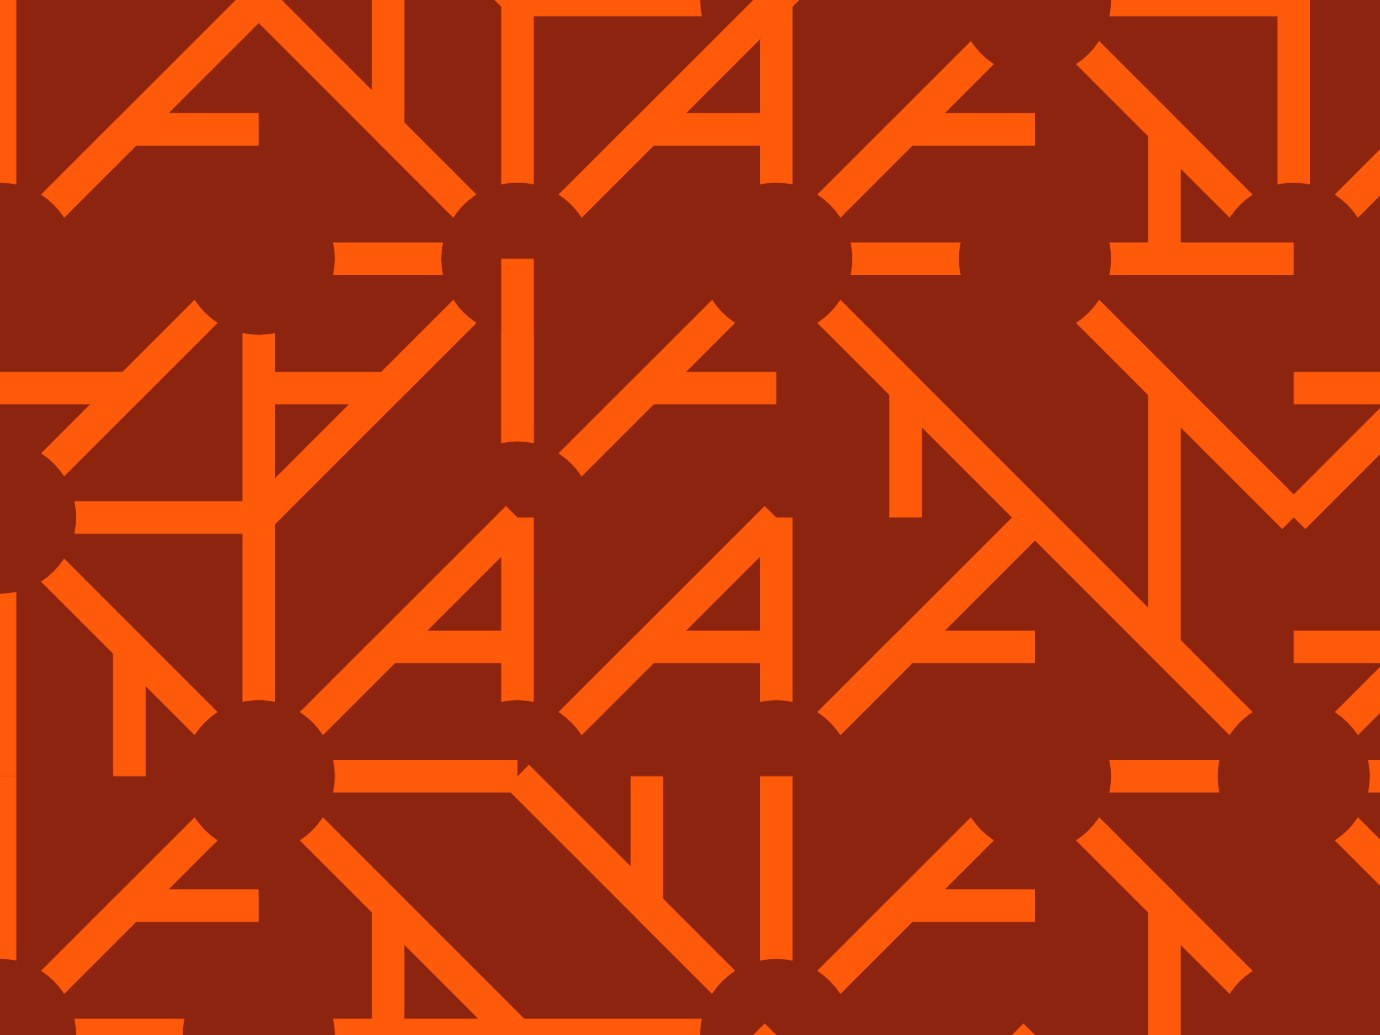
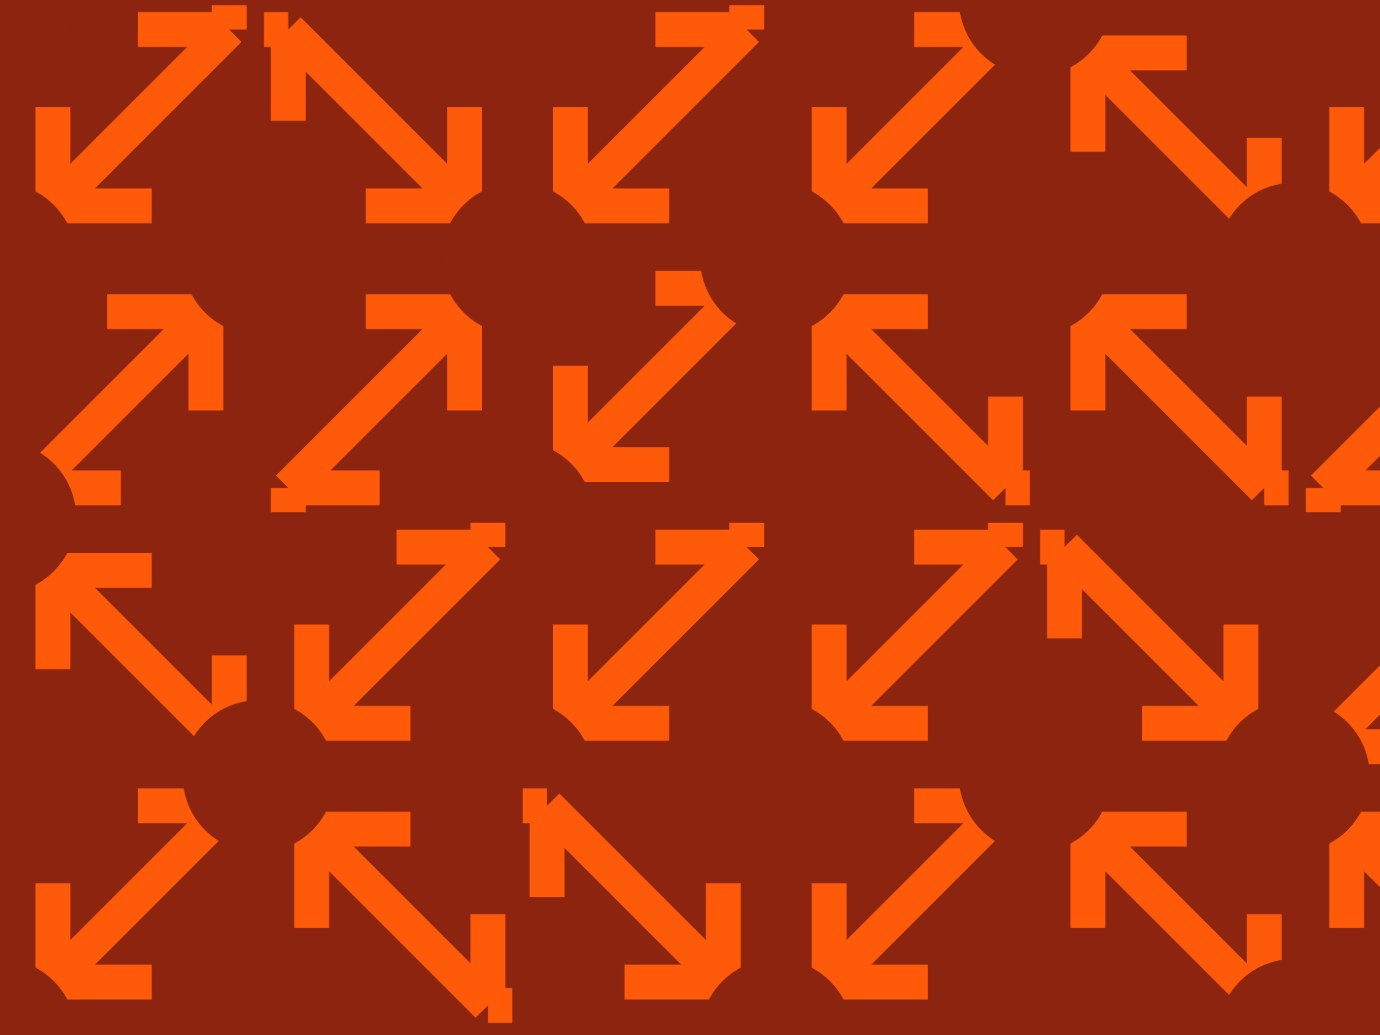
Lock Glyph to an actual arrow
It was dealing strokes freely between anchor points, which produced a set
of marks that happened to include arrows — not the same thing as an arrow
generator. It is now always an arrow, and the seed varies only its
proportions: how far the shaft runs, how big the head is, whether it
carries a tail bar.

The shaft runs down the diagonal and the head is two bars laid back from
the tip along the axes, so the shaft bisects a right angle. That is how the
reference draws it, and it is why the head still reads as a head after a
quarter turn — the bars land on the grid rather than at some odd angle. A
tail bar squared off across the base turns a bare arrow into the bracketed
mark the reference stamps.

Two things had to be got right, and the first attempt got both wrong:

  - The tip must stop short of the corner it points at, because that corner
    is where the scoop is bitten out and where four arrows converge. Running
    the shaft all the way in put the head underneath the scoop, which ate it
    and left a bare diagonal.
  - The head needs a floor. Scaling it by a hash let some seeds produce a
    head too small to read as one, and an arrow generator that sometimes
    draws a line is not doing its job.

Head and Tail are now the two shape controls, replacing the old Arms.

Verified: twelve seeds give twelve distinct arrows, all 6 parameters change
the render, Turn visits all four quarter-turns and returns to its start, and
[…]

diff --git a/glyph/index.html b/glyph/index.html
@@ -393,8 +393,9 @@ input[type=range]{accent-color:var(--ink)}
       </div>
       <a class="lnk back" href="../index.html">&larr; All tools</a>
     </div>
-    <div class="l-scroll"><details class="grp" open><summary>Glyph</summary><div class="grp-b"><div class="pr"><div class="top"><span class="k">Arms</span><span class="v" id="armsVal">45%</span></div><div class="track"><input type="range" id="arms" min="0" max="1" step="0.01" value="0.45"></div></div>
-        <div class="pr"><div class="top"><span class="k">Stroke</span><span class="v" id="weightVal">30%</span></div><div class="track"><input type="range" id="weight" min="0" max="1" step="0.01" value="0.3"></div></div>
+    <div class="l-scroll"><details class="grp" open><summary>Arrow</summary><div class="grp-b"><div class="pr"><div class="top"><span class="k">Head</span><span class="v" id="armsVal">55%</span></div><div class="track"><input type="range" id="arms" min="0" max="1" step="0.01" value="0.55"></div></div>
+        <div class="pr"><div class="top"><span class="k">Tail</span><span class="v" id="tailVal">30%</span></div><div class="track"><input type="range" id="tail" min="0" max="0.7" step="0.01" value="0.3"></div></div>
+        <div class="pr"><div class="top"><span class="k">Stroke</span><span class="v" id="weightVal">34%</span></div><div class="track"><input type="range" id="weight" min="0" max="1" step="0.01" value="0.34"></div></div>
         <div class="pr"><div class="top"><span class="k">Bite</span><span class="v" id="biteVal">70%</span></div><div class="track"><input type="range" id="bite" min="0" max="1" step="0.01" value="0.7"></div></div></div></details>
     <details class="grp" open><summary>Layout</summary><div class="grp-b"><div class="pr"><div class="top"><span class="k">Glyphs across</span><span class="v" id="gridVal">4</span></div><div class="track"><input type="range" id="grid" min="1" max="16" step="1" value="4"></div></div>
         <div class="pr"><div class="top"><span class="k">Rotation</span><span class="v" id="spinVal">75%</span></div><div class="track"><input type="range" id="spin" min="0" max="1" step="0.01" value="0.75"></div></div></div></details></div>
@@ -499,7 +500,7 @@ const PALETTES=[
 
 const S={
   seed:13, ratio:"1:1",
-  grid:4, weight:0.30, arms:0.45,
+  grid:4, weight:0.34, arms:0.55, tail:0.30,
   bite:0.70, spin:0.75,
   pal:PALETTES[0].slice(),
   motion:{on:false,mode:"shuffle",amount:0.6,fps:6,frames:24},
@@ -516,47 +517,47 @@ function hex2rgbG2(h){h=String(h).replace("#","");if(h.length===3)h=h.split("").
   const n=parseInt(h,16);return[(n>>16)&255,(n>>8)&255,n&255];}
 function lumG2(h){const[r,g,b]=hex2rgbG2(h);return r*.299+g*.587+b*.114;}
 
-/* ---- the motif ---------------------------------------------------------
-   One glyph is designed per variation and then stamped in four rotations.
-   It is built from thick strokes on a coarse lattice — a spine, a couple of
-   arms off it, and a bar or two — which is the whole vocabulary the
-   reference uses. The strokes are drawn with round joins and then squared
-   off, so a corner reads as one mitred bend rather than two overlapping
-   bars. */
+/* ---- the arrow ---------------------------------------------------------
+   It is always an arrow. The seed varies its proportions — how far the shaft
+   runs, how big the head is, whether it carries a tail bar — never whether it
+   is an arrow at all. An earlier version dealt strokes freely between anchor
+   points and the result was a set of marks that happened to include arrows,
+   which is not the same thing.
+
+   The shaft runs down the diagonal and the head is two bars laid back from
+   the tip along the axes, so the shaft bisects a right angle. That is how the
+   reference draws it, and it is why the head still reads as a head after a
+   quarter turn: the bars land on the grid rather than at some odd angle. */
 function buildGlyph(f){
   const M=S.motion;
   const gseed=(M.on&&M.mode==="shuffle")?S.seed+f*7919:S.seed;
   const r=(k)=>hshG(k*13+1,k*7+3,gseed+k*29);
 
-  /* Nine anchors — the four corners, the four edge midpoints and the centre.
-     Coarse on purpose: a stroke between any two of them is either square or
-     a true 45, which is the whole geometry of the reference, and because the
-     anchors sit ON the tile edge the marks run off one tile and into the
-     next instead of floating in the middle of it. */
-  const A=[];
-  for(let b=0;b<3;b++) for(let a=0;a<3;a++) A.push([a/2,b/2]);
-
+  /* The tip stops short of the corner the arrow points at, because that
+     corner is where the scoop is bitten out and where four arrows converge.
+     Running the shaft all the way in puts the head under the scoop, which
+     eats it and leaves a bare diagonal. */
+  const t0=0.04+r(2)*0.08;                 /* where the shaft starts */
+  const t1=0.78+r(3)*0.10;                 /* where it ends, at the tip */
+  /* the head has a floor: a small one stops reading as an arrowhead at all,
+     and the whole point of this tool is that it is always an arrow */
+  const head=Math.max(0.20,(0.20+S.arms*0.30)*(0.88+r(4)*0.24));
   const strokes=[];
-  const used={};
-  /* The slider has to move the count for EVERY glyph, not just the ones whose
-     hash happens to sit near a boundary. Scaling a hash by the slider leaves
-     seeds where the whole travel floors to the same number and the control
-     does nothing; adding the slider instead, with only a small seeded wobble
-     on top, means every seed responds while glyphs still differ from each
-     other at the same setting. */
-  const nStrokes=Math.max(2,Math.round(2+S.arms*3.4+(r(1)-0.5)*1.4));
-  for(let k=0;k<nStrokes;k++){
-    let p=Math.floor(r(10+k)*9), q=Math.floor(r(30+k)*9);
-    if(p===q) q=(q+1+Math.floor(r(50+k)*8))%9;
-    /* the centre is where marks meet; a glyph whose strokes never touch is
-       a scatter, not a mark, so pull every stroke after the first onto a
-       point the glyph already uses */
-    if(k>0 && r(70+k)<0.72){
-      const keys=Object.keys(used);
-      if(keys.length) p=+keys[Math.floor(r(90+k)*keys.length)];
-    }
-    used[p]=1; used[q]=1;
-    strokes.push([A[p],A[q]]);
+
+  /* the shaft, running to the bottom-right corner */
+  strokes.push([[t0,t0],[t1,t1]]);
+  /* the head: one bar back along x, one back along y */
+  strokes.push([[t1,t1],[Math.max(0.02,t1-head),t1]]);
+  strokes.push([[t1,t1],[t1,Math.max(0.02,t1-head)]]);
+
+  /* the tail: a bar squared off across the base of the shaft, which is what
+     turns a bare arrow into the bracketed mark the reference stamps */
+  const tail=S.tail*(0.7+r(5)*0.6);
+  if(tail>0.04){
+    const perp=(r(6)<0.5)?1:-1;
+    strokes.push([[t0,t0],[Math.min(0.98,Math.max(0.02,t0+tail*perp)),t0]]);
+    if(r(7)<0.55)
+      strokes.push([[t0,t0],[t0,Math.min(0.98,Math.max(0.02,t0-tail*perp))]]);
   }
   return {strokes:strokes, seed:gseed};
 }
@@ -911,6 +912,7 @@ $("#rotColors").addEventListener("click",()=>{
   setPalette(out);
 });
 bindRange("arms",v=>Math.round(v*100)+"%",v=>S.arms=v);
+bindRange("tail",v=>Math.round(v/0.7*100)+"%",v=>S.tail=v);
 bindRange("weight",v=>Math.round(v*100)+"%",v=>S.weight=v);
 bindRange("bite",v=>Math.round(v*100)+"%",v=>S.bite=v);
 bindRange("grid",v=>v|0,v=>S.grid=v|0);
